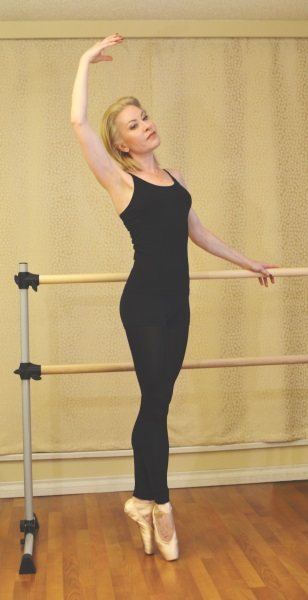
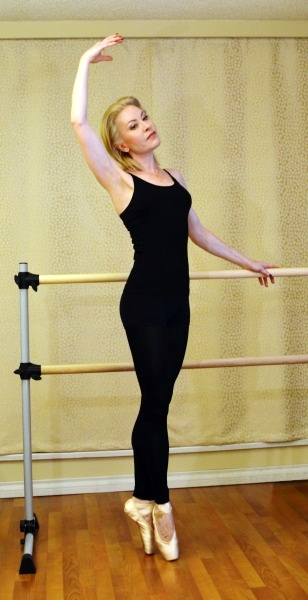
image replaced with progressive jpeg version, unused images deleted

diff --git a/client-focus.html b/client-focus.html
@@ -103,12 +103,10 @@
                     </h2>
                     <hr>
 
-
                     <div class="embed-responsive embed-responsive-16by9 centered">
-                        <video style="max-width:640px;" controls controlsList="nodownload"
-                            poster="img/Kate_2.jpg">
-                            <source src="video/oct07_124_480p.mp4" type="video/mp4"> Your browser does not support the video
-                            tag.
+                        <video style="max-width:640px;" controls controlsList="nodownload" poster="img/Kate_2_prg.jpg">
+                            <source src="video/oct07_124_480p.mp4" type="video/mp4">Your browser does not support the
+                            video tag.
                         </video>
                     </div>
 
